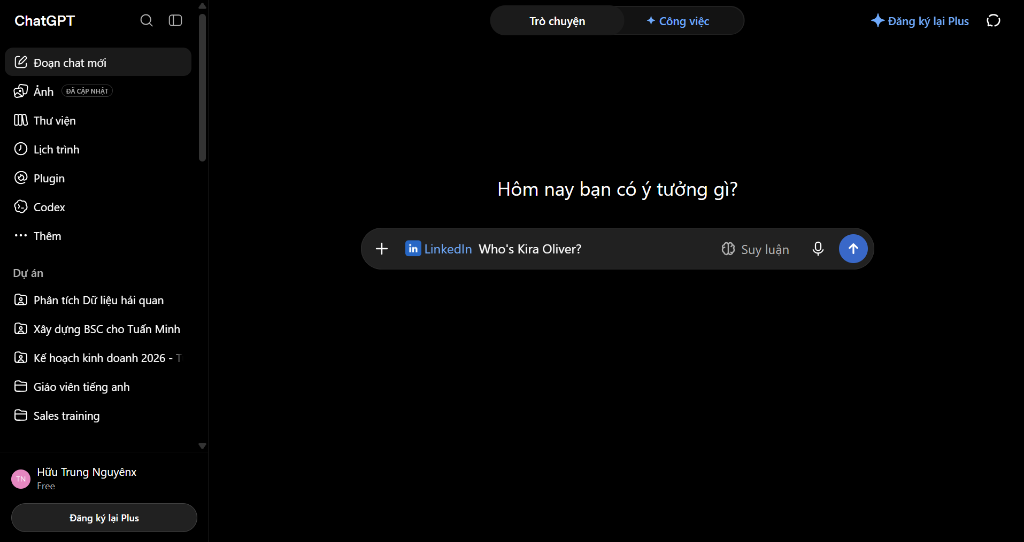
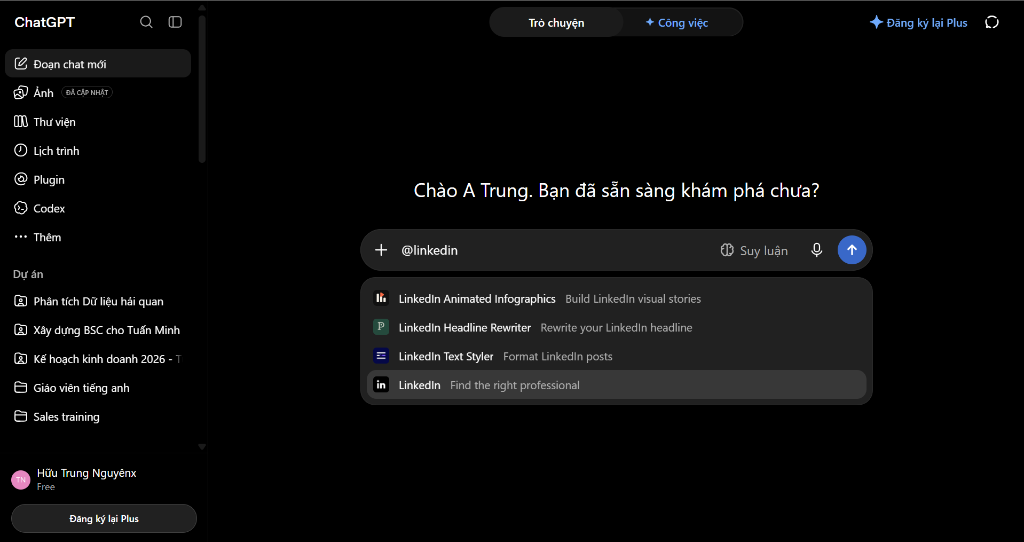
fix(m03): correct neon box coordinates for steps 1-4 and use new Step 3 image with @linkedin guidance

diff --git a/src/components/modules/m03/LinkedInPluginGuide.tsx b/src/components/modules/m03/LinkedInPluginGuide.tsx
@@ -106,10 +106,10 @@ O — OUTPUT & CONSTRAINTS
       overlays: [
         {
           id: 'b1-item',
-          top: '34%',
+          top: '30.5%',
           left: '1.2%',
           width: '18%',
-          height: '8%',
+          height: '5.8%',
           label: '1⃣ Nhấp vào "Plugin"',
           pulse: true,
         }
@@ -128,19 +128,19 @@ O — OUTPUT & CONSTRAINTS
       overlays: [
         {
           id: 'b2-search',
-          top: '33%',
-          left: '70%',
-          width: '21%',
-          height: '9%',
+          top: '17.5%',
+          left: '71.5%',
+          width: '19%',
+          height: '6.5%',
           label: '2A: Gõ từ khóa "linkedin"',
           pulse: false,
         },
         {
           id: 'b2-plus',
-          top: '70.5%',
-          left: '55.5%',
-          width: '3.8%',
-          height: '8%',
+          top: '37.5%',
+          left: '56.5%',
+          width: '3.5%',
+          height: '6.5%',
           label: '2B: Bấm dấu (+)',
           pulse: true,
         }
@@ -148,22 +148,31 @@ O — OUTPUT & CONSTRAINTS
     },
     {
       step: 3,
-      title: 'Bước 03: Kích hoạt Huy hiệu [in LinkedIn] trong Chat',
+      title: 'Bước 03: Gõ @linkedin & Chọn Tiện Ích Trong Chat',
       badge: 'Gọi Tiện Ích',
-      description: 'Mở cuộc trò chuyện mới, kích hoạt plugin LinkedIn để huy hiệu màu xanh [in LinkedIn] xuất hiện ngay trong khung soạn thảo câu lệnh.',
+      description: 'Mở cuộc trò chuyện mới, gõ cú pháp "@linkedin" vào khung chat và nhấp chọn dòng tiện ích "LinkedIn Find the right professional" từ menu gợi ý xuất hiện bên dưới.',
       imgSrc: '/images/tutorials/linkedin-plugin/step3-invoke-linkedin-plugin.png',
-      alt: 'Bước 3: Kích hoạt huy hiệu LinkedIn trong khung chat',
-      mainAction: 'Bấm "Đoạn chat mới" (New chat). Chọn gọi plugin LinkedIn sao cho huy hiệu màu xanh "[in LinkedIn]" xuất hiện ngay phía trước vùng nhập tin nhắn.',
-      businessNote: 'Huy hiệu [in LinkedIn] là tín hiệu bắt buộc xác nhận ChatGPT đang truy vấn trực tiếp qua API mạng xã hội LinkedIn. Nếu không có huy hiệu này, AI sẽ chỉ tìm kiếm thông tin web chung chung thay vì trích xuất đúng hồ sơ Buyer thực tế.',
-      proTip: 'Bạn có thể gọi nhanh bằng cách gõ ký tự "@" hoặc nhấp vào biểu tượng dấu cộng (+) trong thanh nhập liệu của ChatGPT để chọn tiện ích từ menu nổi.',
+      alt: 'Bước 3: Gõ @linkedin và chọn tiện ích LinkedIn Find the right professional',
+      mainAction: 'Tại khung chat mới, gõ cú pháp "@linkedin". Một danh sách gợi ý sẽ xuất hiện ngay bên dưới, nhấp chọn đúng dòng thứ 4: "[in] LinkedIn Find the right professional" để kích hoạt.',
+      businessNote: 'Thao tác gõ @linkedin trực tiếp trong khung chat là cách nhanh nhất và chuẩn xác nhất để gán context của LinkedIn vào phiên hội thoại, giúp AI hiểu và kích hoạt quyền trích xuất dữ liệu doanh nghiệp.',
+      proTip: 'Tránh chọn nhầm các plugin viết bài như Animated Infographics, Headline Rewriter hay Text Styler. Hãy chọn đúng dòng có biểu tượng [in] LinkedIn "Find the right professional".',
       overlays: [
         {
-          id: 'b3-badge',
-          top: '79%',
-          left: '38%',
-          width: '8.5%',
-          height: '8.5%',
-          label: '3⃣ Huy hiệu [in LinkedIn]',
+          id: 'b3-type',
+          top: '43.5%',
+          left: '37.5%',
+          width: '7.5%',
+          height: '5.2%',
+          label: '3A: Gõ "@linkedin"',
+          pulse: true,
+        },
+        {
+          id: 'b3-select',
+          top: '67.5%',
+          left: '35.5%',
+          width: '49%',
+          height: '6.5%',
+          label: '3B: Chọn "LinkedIn Find the right professional"',
           pulse: true,
         }
       ]
@@ -181,7 +190,7 @@ O — OUTPUT & CONSTRAINTS
       overlays: [
         {
           id: 'b4-prompt',
-          top: '40%',
+          top: '41%',
           left: '34.5%',
           width: '53%',
           height: '38%',
@@ -192,8 +201,8 @@ O — OUTPUT & CONSTRAINTS
           id: 'b4-send',
           top: '71.5%',
           left: '81%',
-          width: '4%',
-          height: '8%',
+          width: '3.5%',
+          height: '6.5%',
           label: '4B: Bấm Gửi (↑)',
           pulse: true,
         }
